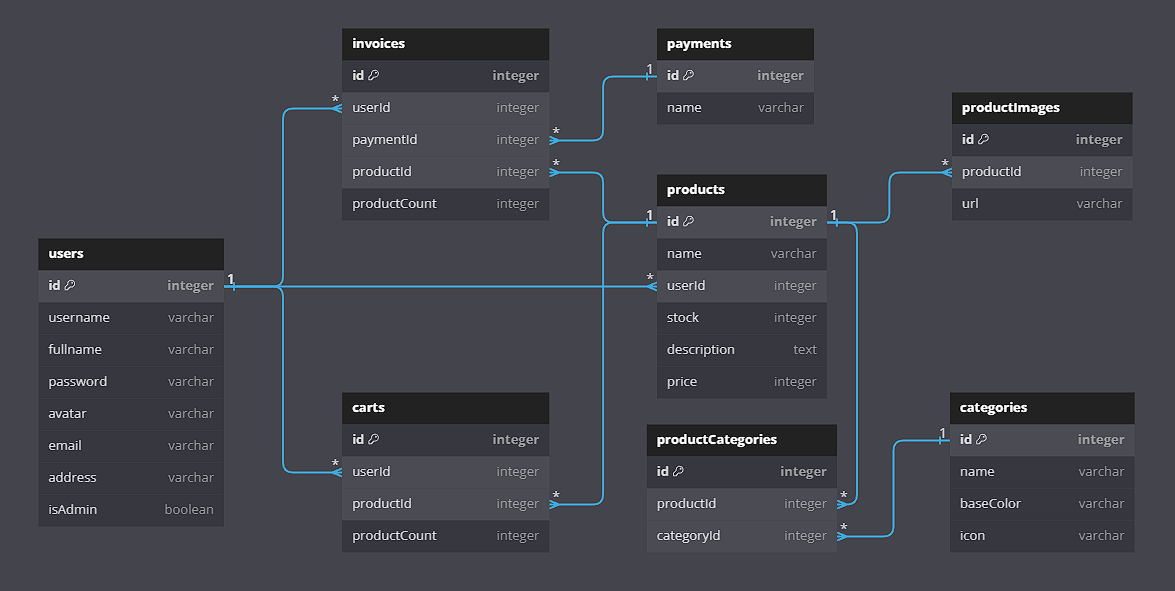
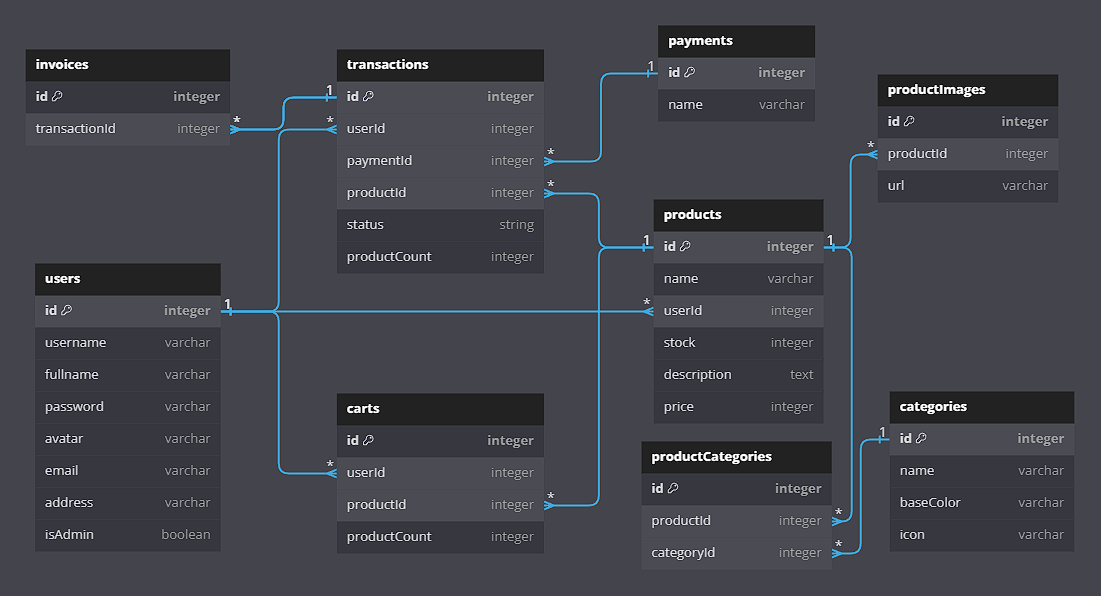
add transaction

diff --git a/controllers/TransactionController.js b/controllers/TransactionController.js
@@ -1,0 +1,99 @@
+const { transaction, product, user, cart, payment } = require("../models");
+
+class TransactionController {
+  static async getAllTransactions(req, res) {
+    try {
+      const transactions = await transaction.findAll({
+        include: [user, product, payment],
+      });
+      res.status(200).send({ message: `Success Get All Transactions`, data: transactions });
+    } catch (error) {
+      res.status(500).send({ message: `Error Get All Transactions`, error });
+    }
+  }
+  static async getTransactions(req, res) {
+    try {
+      const userData = req.body.userData;
+      const transactions = await transaction.findAll({
+        where: { userId: userData.id },
+        include: [user, product, payment],
+      });
+      res.status(200).send({ message: `Success Get Transactions ${userData.username}`, data: transactions });
+    } catch (error) {
+      res.status(500).send({ message: `Error Get Transactions`, error });
+    }
+  }
+  static async getTransactionById(req, res) {
+    try {
+      const id = req.params.id;
+      const userData = req.body.userData;
+      const transactions = await transaction.findByPk({
+        where: { id: id, userId: userData.id },
+        include: product,
+      });
+      res.status(200).send({ message: `Success Get Transactions ${userData.username}`, data: transactions });
+    } catch (error) {
+      res.status(500).send({ message: `Error Get Transactions`, error });
+    }
+  }
+  static async checkout(req, res) {
+    try {
+      const { userData, productId, productCount, paymentId } = req.body;
+      const updatedProduct = await product.findOne({ where: { id: +productId } });
+      if (!updatedProduct) throw `Product does not exist`;
+      await product.update({ stock: updatedProduct.stock - productCount }, { where: { id: +productId } });
+      await cart.destroy({ where: { productId: +productId, userId: userData.id, productCount: +productCount } });
+      const newTransaction = await transaction.create({
+        userId: +userData.id,
+        productId: +productId,
+        productCount: +productCount,
+        paymentId: +paymentId,
+      });
+      res.status(200).send({ message: `Success Adding Transaction`, data: newTransaction });
+    } catch (error) {
+      res.status(500).send({ message: `Error Adding Transaction`, error });
+    }
+  }
+  static async delivery(req, res) {
+    try {
+      const id = req.params.id;
+      const { userData } = req.body;
+      const oldTransaction = await transaction.findOne({ where: { id: +id } });
+      if (!oldTransaction) throw `Transaction does not exist`;
+      await transaction.update({ status: "On Delivery" }, { where: { id: +id } });
+      const updatedTransction = await transaction.findOne({ where: { id: +id } });
+      res.status(200).send({ message: `Success Update Status Delivery Transaction`, oldData: oldTransaction, updatedData: updatedTransction });
+    } catch (error) {
+      res.status(500).send({ message: `Error Update Status Delivery Transaction`, error });
+    }
+  }
+  static async arrive(req, res) {
+    try {
+      const id = req.params.id;
+      const { userData } = req.body;
+      const oldTransaction = await transaction.findOne({ where: { id: +id } });
+      if (!oldTransaction) throw `Transaction does not exist`;
+      await transaction.update({ status: "Arrived at Destination" }, { where: { id: +id } });
+      const updatedTransction = await transaction.findOne({ where: { id: +id } });
+      res.status(200).send({ message: `Success Update Status Arrive Transaction`, oldData: oldTransaction, updatedData: updatedTransction });
+    } catch (error) {
+      res.status(500).send({ message: `Error Update Status Arrive Transaction`, error });
+    }
+  }
+  // static async delete(req, res) {
+  //   try {
+  //     const id = req.params.id;
+  //     const userData = req.body.userData;
+  //     const deletedTransaction = await transaction.findByPk(id, { include: product });
+  //     if (!deletedTransaction) {
+  //       throw `Transaction id ${id} does not exist !`;
+  //     }
+  //     await transaction.destroy({ where: { id: id, userId: userData.id } });
+  //     res.status(200).send({ message: `Success Deleting Transaction`, deletedData: deletedTransaction });
+  //   } catch (error) {
+  //     res.status(500).send({ message: `Error Deleting Transaction`, error });
+  //   }
+  // }
+}
+
+module.exports = TransactionController;

diff --git a/models/transaction.js b/models/transaction.js
@@ -3,7 +3,7 @@ const {
   Model
 } = require('sequelize');
 module.exports = (sequelize, DataTypes) => {
-  class invoice extends Model {
+  class transaction extends Model {
     /**
      * Helper method for defining associations.
      * This method is not a part of Sequelize lifecycle.
@@ -11,19 +11,25 @@ module.exports = (sequelize, DataTypes) => {
      */
     static associate(models) {
       // define association here
-      invoice.belongsTo(models.user)
-      invoice.belongsTo(models.product)
-      invoice.belongsTo(models.payment)
+      transaction.belongsTo(models.user)
+      transaction.belongsTo(models.product)
+      transaction.belongsTo(models.payment)
     }
   }
-  invoice.init({
+  transaction.init({
     userId: DataTypes.INTEGER,
     productId: DataTypes.INTEGER,
     productCount: DataTypes.INTEGER,
+    status: DataTypes.STRING,
     paymentId: DataTypes.INTEGER
   }, {
+    hooks: {
+      beforeCreate: (transaction, options) => {
+        transaction.status = transaction.status || "On Process";
+      }
+    },
     sequelize,
-    modelName: 'invoice',
+    modelName: 'transaction',
   });
-  return invoice;
+  return transaction;
 };

diff --git a/routes/transactionRoutes.js b/routes/transactionRoutes.js
@@ -1,0 +1,13 @@
+const transactionRoute = require('express').Router()
+const TransactionController = require('../controllers/TransactionController.js')
+const { isAdmin, isLogin } = require("../middlewares/auth");
+
+transactionRoute.get('/', isLogin, TransactionController.getTransactions)
+transactionRoute.get('/all', isLogin, isAdmin, TransactionController.getAllTransactions)
+transactionRoute.get('/:id', isLogin, TransactionController.getTransactionById)
+transactionRoute.post('/checkout', isLogin, TransactionController.checkout)
+transactionRoute.put('/delivery/:id', isLogin, isAdmin, TransactionController.delivery)
+transactionRoute.put('/arrive/:id', isLogin, TransactionController.arrive)
+// transactionRoute.delete('/delete/:id', isLogin, isAdmin, TransactionController.delete)
+
+module.exports = transactionRoute

diff --git a/migrations/20231101061427-create-transaction.js b/migrations/20231101061427-create-transaction.js
@@ -2,7 +2,7 @@
 /** @type {import('sequelize-cli').Migration} */
 module.exports = {
   async up(queryInterface, Sequelize) {
-    await queryInterface.createTable('invoices', {
+    await queryInterface.createTable('transactions', {
       id: {
         allowNull: false,
         autoIncrement: true,
@@ -18,6 +18,9 @@ module.exports = {
       productCount: {
         type: Sequelize.INTEGER
       },
+      status: {
+        type: Sequelize.STRING
+      },
       paymentId: {
         type: Sequelize.INTEGER
       },
@@ -32,6 +35,6 @@ module.exports = {
     });
   },
   async down(queryInterface, Sequelize) {
-    await queryInterface.dropTable('invoices');
+    await queryInterface.dropTable('transactions');
   }
 };

diff --git a/routes/index.js b/routes/index.js
@@ -4,7 +4,7 @@ const categoryRoutes = require('./categoryRoutes.js')
 const userRoutes = require('./userRoutes.js')
 const paymentRoutes = require('./paymentRoutes.js')
 const cartRoutes = require('./cartRoutes.js')
-const invoiceRoutes = require('./invoiceRoutes.js')
+const transactionRoutes = require('./transactionRoutes.js')
 
 route.post('/', (req, res) => {
     res.redirect('/users/login')
@@ -14,5 +14,5 @@ route.use('/categories', categoryRoutes);
 route.use('/users', userRoutes);
 route.use('/payments', paymentRoutes);
 route.use('/:username/carts', cartRoutes);
-route.use('/:username/invoices', invoiceRoutes);
+route.use('/:username/transactions', transactionRoutes);
 module.exports = route

diff --git a/models/product.js b/models/product.js
@@ -15,7 +15,7 @@ module.exports = (sequelize, DataTypes) => {
       product.hasMany(models.productImage, {foreignKey: 'productId'})
       product.belongsTo(models.user)
       product.hasMany(models.cart, {foreignKey: 'productId'})
-      // product.hasMany(models.invoice, {foreignKey: 'productId'})
+      product.hasMany(models.transaction, {foreignKey: 'productId'})
     }
   }
   product.init({

diff --git a/models/user.js b/models/user.js
@@ -14,7 +14,7 @@ module.exports = (sequelize, DataTypes) => {
       // define association here
       user.hasMany(models.product, {foreignKey: 'userId'})
       user.hasMany(models.cart, {foreignKey: 'userId'})
-      // user.hasMany(models.invoice, {foreignKey: 'userId'})
+      user.hasMany(models.transaction, {foreignKey: 'userId'})
 
     }
   }

diff --git a/models/payment.js b/models/payment.js
@@ -11,7 +11,7 @@ module.exports = (sequelize, DataTypes) => {
      */
     static associate(models) {
       // define association here
-      payment.hasMany(models.invoice, {foreignKey: 'paymentId'})
+      payment.hasMany(models.transaction, {foreignKey: 'paymentId'})
     }
   }
   payment.init({
